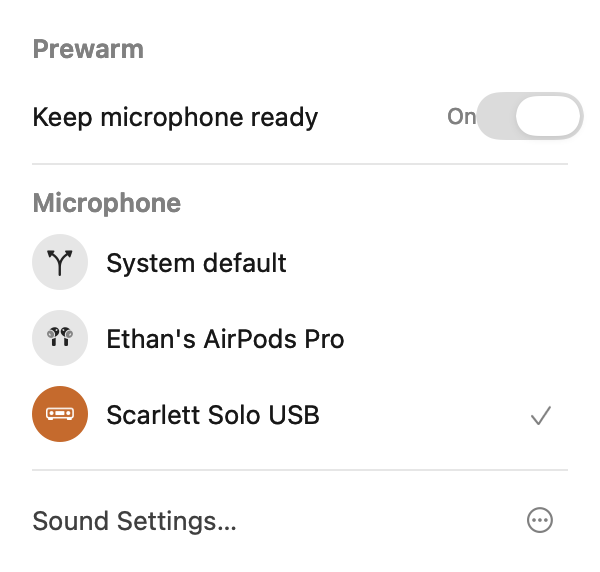
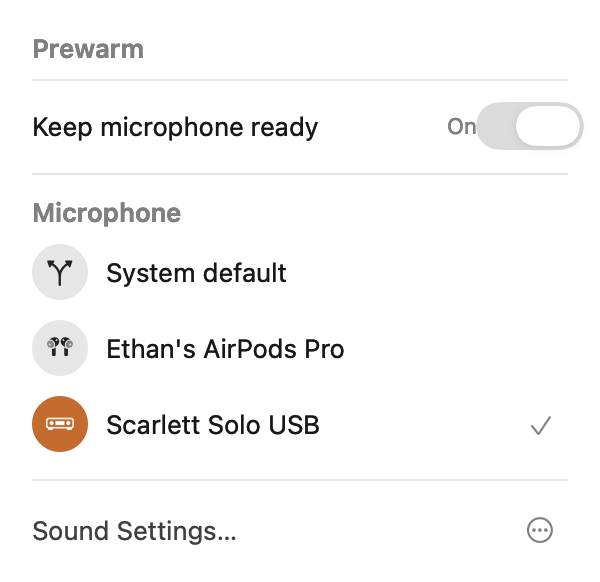
fix(ui): separate panel header with native divider

diff --git a/Sources/Prewarm/PrewarmPanel.swift b/Sources/Prewarm/PrewarmPanel.swift
@@ -174,14 +174,16 @@ final class PrewarmPanel: NSViewController {
         actions.widthAnchor.constraint(equalTo: footer.widthAnchor).isActive = true
         more.widthAnchor.constraint(equalToConstant: 28).isActive = true
         more.heightAnchor.constraint(equalToConstant: 28).isActive = true
-        let stack = NSStackView(views: [headerRow, row, separator(), micHeader, deviceStack, separator(), footer])
+        let headerDivider = separator()
+        let stack = NSStackView(views: [headerRow, headerDivider, row, separator(), micHeader, deviceStack, separator(), footer])
         contentStack = stack
         stack.orientation = .vertical
         stack.distribution = .fill
         stack.setHuggingPriority(.required, for: .vertical)
         stack.alignment = .leading
         stack.spacing = 10
-        stack.setCustomSpacing(12, after: headerRow)
+        stack.setCustomSpacing(8, after: headerRow)
+        stack.setCustomSpacing(8, after: headerDivider)
         stack.setCustomSpacing(4, after: micHeader)
         stack.translatesAutoresizingMaskIntoConstraints = false
         content.addSubview(stack)

diff --git a/scripts/AppearanceReview/main.swift b/scripts/AppearanceReview/main.swift
@@ -5,7 +5,7 @@ let root = CommandLine.arguments[1]
 let app = NSApplication.shared
 app.setActivationPolicy(.prohibited)
 app.applicationIconImage = NSImage(contentsOfFile: "\(root)/assets/Prewarm.icns")!
-let controller = AboutController(info: ["CFBundleShortVersionString": "0.1.2", "CFBundleVersion": "7"])
+let controller = AboutController(info: ["CFBundleShortVersionString": "0.1.2", "CFBundleVersion": "8"])
 let window = PrewarmWindow(contentRect: NSRect(x: 0, y: 0, width: 320, height: 460), styleMask: [.titled, .closable, .fullSizeContentView], backing: .buffered, defer: false)
 window.contentViewController = controller
 for (name, appearanceName) in [("light", NSAppearance.Name.aqua), ("dark", NSAppearance.Name.darkAqua)] {

diff --git a/assets/icon-review.md b/assets/icon-review.md
@@ -53,3 +53,5 @@ The isolated menu fixture verifies every item view is nil, check states and nati
 Build 7 is the user-authorized alternate native panel after clarifying that the prior controls/layout should remain. The build6 standard menu is preserved on backup/standard-menu-build6-525aeba for rollback. The restored plain AppKit content keeps aligned circular device badges, full-row hover, native hosted SwiftUI switch, Sound Settings and native More menu. Its Close control is removed. A nonactivating, key-capable titled NSPanel with fullSizeContentView hides native title controls, has no popover pointer, and anchors within the display's visibleFrame. One NSGlassEffectView hosts content on26+, with its inner corner radius zero so the standard window frame owns the rounded boundary; older systems use one native NSVisualEffectView. No private Control Center components or custom window masking. This remains custom native content inside a public native panel, not all-stock menu items.
 
 The isolated native-host probe checks full-size frame/content286pt height without titlebar surplus, hidden/absent Close, zero inner material radius and inherited light/dark on the same instance. It opens no visible panel or input. Outside-click monitors install only while shown and are removed on dismiss/destruction; Escape dismisses through the native responder chain. Root checks actual native corners, placement, dismissal, More, switch/device selection and live audio. No capture or UID policy change.
+
+Build 8 adds the user's requested native NSBox dividing line below the Prewarm header, with compact8pt spacing on each side. Other accepted panel behavior and controls are unchanged. The root's Escape observations were inconclusive because the actual panel disappearance and AX responses differed; no speculative keyboard change is included.

diff --git a/README.md b/README.md
@@ -1,6 +1,6 @@
 # Prewarm
 
-Prewarm 0.1.2 (build 7), by Ethan Proia.
+Prewarm 0.1.2 (build 8), by Ethan Proia.
 
 A tiny macOS menu-bar utility that keeps your microphone warm by keeping its input stream active. It immediately discards audio samples; it does not record, analyze, save, or transmit audio. No third-party dependencies or network calls.
 
